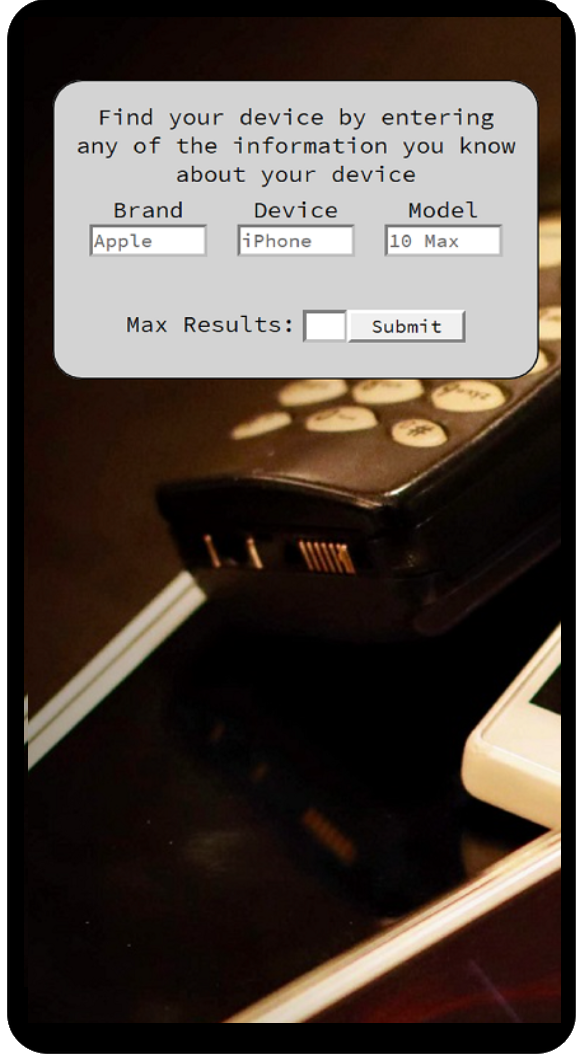
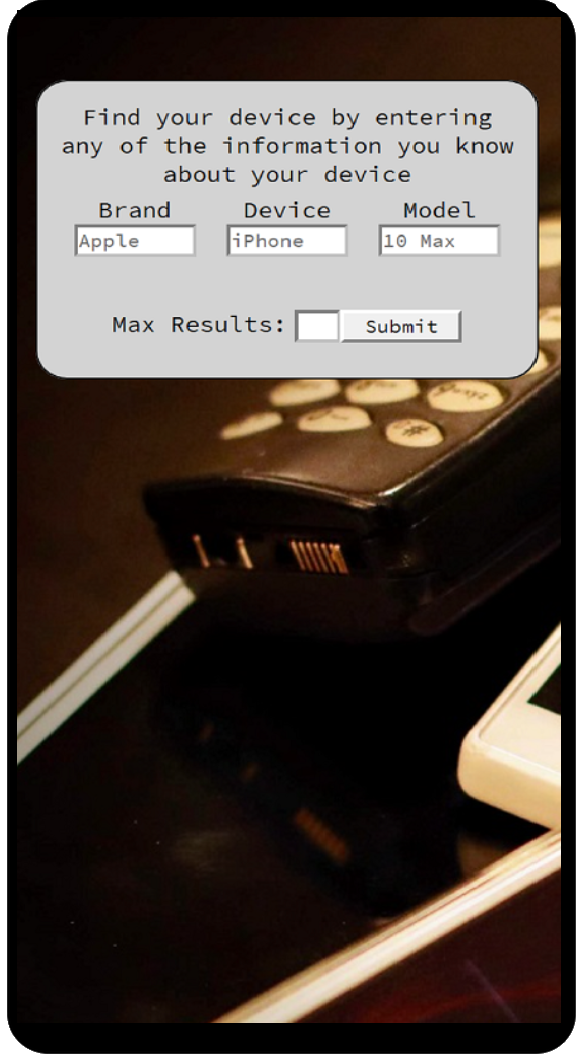
CSS changed

diff --git a/index.js b/index.js
@@ -66,8 +66,6 @@ function phoneEffect(){
 
 
 //Vibrate the phone image when the user clicks on anything other than the phone image
-
-
 function manageWrongClicks(phone=true){
         if(phone === false){  
           $( '.red' ).css('display', 'block');
@@ -87,6 +85,7 @@ function manageWrongClicks(phone=true){
           $( '.red' ).fadeOut(300);
         }
 }
+
 //This function return youtube links or prints that Youtubr apikey has exceeded its qouta limit in the review video element in html
 function addVideos(deviceName, videoNum){
   let searchURL = youtubeURL; 

diff --git a/index.css b/index.css
@@ -303,13 +303,14 @@ td.specs{
       border: 1px solid lightgrey;
       height: 50px;
       width: 70%;
-      font-size: 20px;
-      padding-top: 12px;
+      padding-right: 20px;
+      padding-left: 20px;
+      font-size: 15px;
+      padding-top: 5px;
 }
 
 
 /* Use this to display different parts of the user views*/
-
 .initial-screen{
     display: block;
 }
@@ -383,6 +384,11 @@ td.specs{
         top: 10px;
         font-size: 13px;
     }
+    .no-result-found{
+        font-size: 20px;
+        padding-top: 10px;
+  }
+  
 
 }
 
